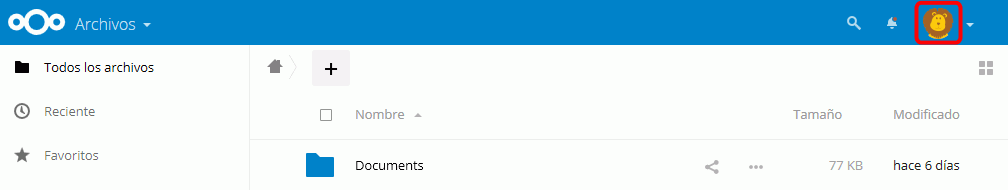
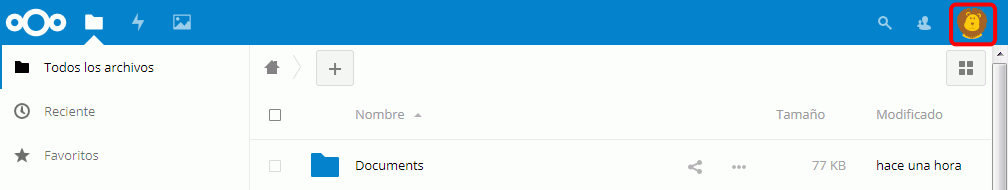
Empiezo a actualizar Nextcloud 2

diff --git a/lecciones/nextcloud-2.html b/lecciones/nextcloud-2.html
@@ -60,7 +60,9 @@
     <h2>Nextcloud (2) 1 - Perfil del administrador</h2>
     <ol>
       <li>Configure la cuenta del administrador estableciendo su Nombre completo, Dirección de correo y Foto de perfil.
-        <p class="captura"><img src="../img/nextcloud/2-1-e-1-perfil.png" alt="Nextcloud. Perfil de administrador" width="1008" height="190" /></p>
+        <p class="captura">
+          <img src="../img/nextcloud/2-1-e-1-perfil.png" alt="Nextcloud. Perfil de administrador" width="1008" height="190" />
+        </p>
         <ul>
           <li>Nombre: <span class="codigo-modificacion">Admin Istrador</span></li>
           <li>Dirección de correo: <span class="codigo-modificacion">admin@example.com</span></li>
@@ -185,8 +187,8 @@
 
     <p>En este ejercicio se trata de probar el cliente de escritorio.</p>
     <ol>
-      <li>Descargue la versión <strong>Nextcloud Desktop Client 2.2.4.2</strong>, publicada el 30 de septiembre de 2016. Se recomienda esa versión ya que estos ejercicios se han preparado para ella.
-        <p>Si la versión <strong>Nextcloud Desktop Client 2.2.4.2</strong> ya no está disponible en la web del programa, puede descargarla desde la página de <a href="../otros/descarga-aplicaciones.html">Descarga de aplicaciones</a>.</p>
+      <li>Descargue la versión <strong>Nextcloud Desktop Client 2.3.3</strong>, publicada el 20 de noviembre de 2017. Se recomienda esa versión ya que estos ejercicios se han preparado para ella.
+        <p>Si la versión <strong>Nextcloud Desktop Client 2.3.3</strong> ya no está disponible en la web del programa, puede descargarla desde la página de <a href="../otros/descarga-aplicaciones.html">Descarga de aplicaciones</a>.</p>
       </li>
       <li>Instale y configure el cliente de escritorio para el usuario <strong>sistemas_1</strong> para sincronizar Nextcloud con una carpeta de <strong>Mis documentos</strong></li>
       <li>Comprueba el funcionamiento del cliente de escritorio:
@@ -221,21 +223,49 @@
 
     <p>En este ejercicio se trata de probar alguna de las aplicaciones libres disponibles en la tienda de Nextcloud.</p>
 
-    <p class="incompleto"><img src="../varios/iconos/icono-en-construccion.svg" alt="En construcción" width="55" height="48" />Este ejercicio está por actualizar a Nextcloud (enunciados y capturas).</p>
-
     <section id="ejercicio-7-1">
-      <h3>Aplicación Calendar</h3>
+      <h3>Aplicación Unsplash</h3>
 
-      <p>En este ejercicio se trata de probar la aplicación <strong>Calendar</strong>.</p>
+      <p>Instale la aplicación <strong>Unsplash</strong>, que modifica la página de entrada a Nextcloud con una foto aleatoria obtenida en <a href="https://unsplash.com/">Unsplash</a>.</p>
+
+      <p class="captura">
+        <img src="../img/nextcloud/2-7-e-unsplash.jpg" alt="Nextcloud. Aplicación Unsplash" width="504" height="283" />
+      </p>
     </section>
 
     <section id="ejercicio-7-2">
+      <h3>Aplicación MarkDown Editor</h3>
+
+      <p>Instale la aplicación <strong>MarkDown Editor</strong>, que añade un editor de MarkDown con vista previa.</p>
+
+      <p class="captura">
+        <a href="../img/nextcloud/2-7-e-markdown-editor.png">
+          <img src="../img/nextcloud/2-7-e-markdown-editor-mini.png" alt="Nextcloud. Aplicación MarkDown Editor" width="504" height="283" />
+        </a>
+      </p>
+
+      <p><strong>Referencia</strong>: <a href="https://guides.github.com/features/mastering-markdown/">Introducción a MarkDown</a>, en GitHub.</p>
+    </section>
+
+    <section id="ejercicio-7-3">
+      <h3>Aplicación Calendar</h3>
+
+      <p>Instale la aplicación <strong>Calendar</strong>.</p>
+
+      <p class="captura">
+        <a href="../img/nextcloud/2-7-e-calendar.png">
+          <img src="../img/nextcloud/2-7-e-calendar-mini.png" alt="Nextcloud. Aplicación MarkDown Editor" width="504" height="283" />
+        </a>
+      </p>
+    </section>
+
+    <section id="ejercicio-7-4">
       <h3>Aplicación Announcement Center</h3>
 
       <p>En este ejercicio se trata de probar la aplicación <strong>Announcement Center</strong>.</p>
     </section>
 
-    <section id="ejercicio-7-3">
+    <section id="ejercicio-7-5">
       <h3>Audio Player</h3>
 
       <p>En este ejercicio se trata de probar la aplicación <strong>Audio Player</strong>.</p>
@@ -324,7 +354,7 @@
   </section>
 
   <footer>
-    <p class="ultmod">Última modificación de esta página: 31 de enero de 2017</p>
+    <p class="ultmod">Última modificación de esta página: 13 de febrero de 2018</p>
 
     <p class="licencia"><a rel="license" href="https://creativecommons.org/licenses/by-sa/4.0/deed.es_ES"><img src="../varios/iconos/icono-cc-by-sa.svg" alt="Licencia Creative Commons" title="Licencia Creative Commons BY-SA" width="120" height="42" /></a><br />
       Esta página forma parte del curso <strong><a href="http://www.mclibre.org/consultar/webapps/">Aplicaciones web</a></strong> por <a href="http://www.mclibre.org/" rel="author">Bartolomé Sintes Marco</a><br />

diff --git a/lecciones/nextcloud-2-soluciones.html b/lecciones/nextcloud-2-soluciones.html
@@ -19,8 +19,7 @@
 
     <div class="toc">
       <h2>
-        <a href="nextcloud.html"><img src="../varios/iconos/icono-flecha-izquierda.svg" alt="Anterior" title="Anterior" width="15" height="18" /></a> Nextcloud (2)
-        <a href="nextcloud-2.html"><img src="../varios/iconos/icono-flecha-derecha.svg" alt="Siguiente" title="Siguiente" width="15" height="18" /></a>
+        <a href="nextcloud-1.html"><img src="../varios/iconos/icono-flecha-izquierda.svg" alt="Anterior" title="Anterior" width="15" height="18" /></a> Nextcloud (2)
       </h2>
 
       <h3><a href="nextcloud-2.html">Enunciados</a></h3>
@@ -62,7 +61,7 @@
         <p class="captura"><img src="../img/nextcloud/2-1-s-1-perfil.png" alt="Nextcloud. Perfil" width="1008" height="260" /></p>
       </li>
       <li>Complete los datos de la ficha personal. Para subir la imagen, haga clic en el icono de flecha.
-        <p class="captura"><img src="../img/nextcloud/2-1-s-2-perfil.png" alt="Nextcloud. Perfil" width="1008" height="673" /></p>
+        <p class="captura"><img src="../img/nextcloud/2-1-s-2-perfil.png" alt="Nextcloud. Perfil" width="1098" height="567" /></p>
       </li>
     </ul>
   </section>
@@ -192,7 +191,7 @@
   </section>
 
   <footer>
-    <p class="ultmod">Última modificación de esta página: 31 de enero de 2017</p>
+    <p class="ultmod">Última modificación de esta página: 12 de febrero de 2018</p>
 
     <p class="licencia"><a rel="license" href="https://creativecommons.org/licenses/by-sa/4.0/deed.es_ES"><img src="../varios/iconos/icono-cc-by-sa.svg" alt="Licencia Creative Commons" title="Licencia Creative Commons BY-SA" width="120" height="42" /></a><br />
       Esta página forma parte del curso <strong><a href="http://www.mclibre.org/consultar/webapps/">Aplicaciones web</a></strong> por <a href="http://www.mclibre.org/" rel="author">Bartolomé Sintes Marco</a><br />

diff --git a/index.html b/index.html
@@ -205,7 +205,7 @@
   </div>
 
   <footer>
-    <p class="ultmod">Última modificación de alguna página de este curso: 12 de febrero de 2018</p>
+    <p class="ultmod">Última modificación de alguna página de este curso: 13 de febrero de 2018</p>
 
     <p class="licencia"><a rel="license" href="https://creativecommons.org/licenses/by-sa/4.0/deed.es_ES"><img src="varios/iconos/icono-cc-by-sa.svg" alt="Licencia Creative Commons" title="Licencia Creative Commons BY-SA" width="120" height="42" /></a><br />
       Esta página forma parte del curso <strong><a href="http://www.mclibre.org/consultar/webapps/">Aplicaciones web</a></strong> por <a href="http://www.mclibre.org/" rel="author">Bartolomé Sintes Marco</a><br />
